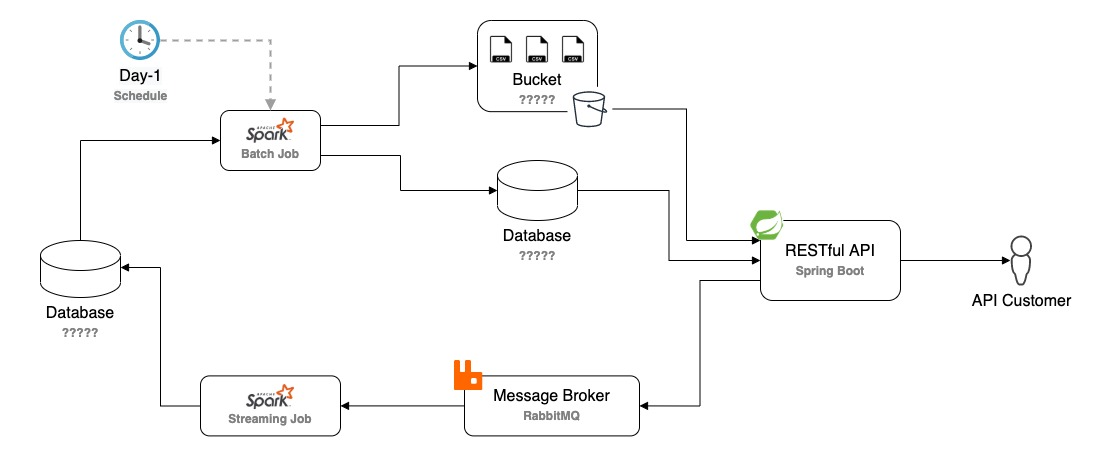
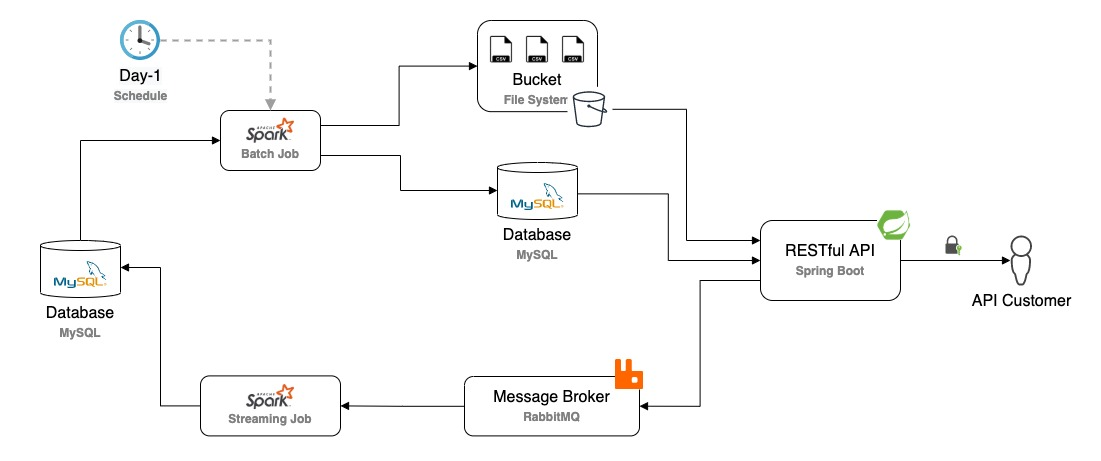
[DOCs] Updating API Docs and Diagram

diff --git a/README.md b/README.md
@@ -9,18 +9,11 @@ By Anthony Vilarim Caliani
 
 ## Quick Start
 ```bash
-# TODO...
+docker-compose up -d
+# TODO... Mock Stuff
 ```
 
-## Screenshots
-...
-
-## Mocked Data
-```bash
-# TODO...
-```
-
-## Development Details
+### Development Details
  - [DMesh API](./dmesh-api/README.md)
  - [Spark Jobs](./dmesh-jobs/README.md)
 
